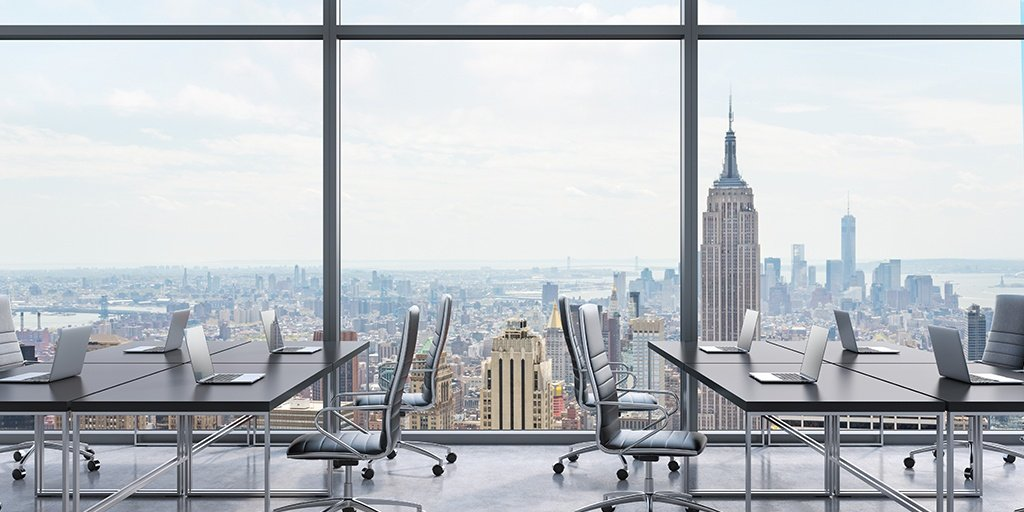
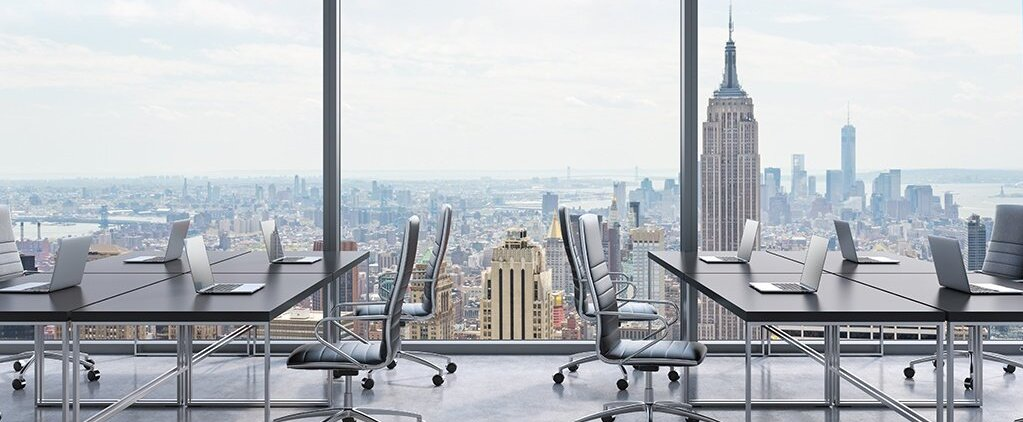
chaged images

diff --git a/src/components/header.js b/src/components/header.js
@@ -9,33 +9,30 @@ import { FaStoreAlt } from "@react-icons/all-files/fa/FaStoreAlt";
 import { FaFlagUsa } from "@react-icons/all-files/fa/FaFlagUsa";
 import { FaWarehouse } from "@react-icons/all-files/fa/FaWarehouse";
 import { FaBox } from "@react-icons/all-files/fa/FaBox";
-import useWindowSize from '../utils/useWindowSize';
 
 const Header = () => {
   const [open, setOpen] = useState(false);
-  const { width } = useWindowSize();
   return (
     <Navbar expand="md" id="navbar" style={{ padding: '5px 0 0 0' }}>
       <Container fluid className="header-container">
-        <Box style={{ flex: '1 1 100%', textAlign: 'right', paddingRight: width < 768 ? '10px' : '0' }}>
+        <Box style={{ flex: '1 1 100%', textAlign: 'right', paddingRight: '10px' }}>
           <a href="tel:+4258704368" style={{ color: '#000', cursor: 'pointer', display: 'flex', alignItems: 'center', justifyContent: 'flex-end' }}>
             <FaPhoneSquareAlt style={{ marginRight: '10px' }} />425-870-4368
           </a>
         </Box>
-        <Box style={{ flex: '1 1 100%', display: 'flex' }}>
+        <Box className="nav-wrapper">
           <Box>
             <Link to="/" style={{ margin: '0 20px' }}>
               <StaticImage src="../images/logo.jpg" alt="Flex Moving Logo" width={70} style={{ top: '-10px' }} />
             </Link>
           </Box>
-          <NavbarToggler onClick={() => setOpen(!open)} />
+          <Box>
+            <NavbarToggler onClick={() => setOpen(!open)} />
+          </Box>
           <Collapse navbar isOpen={open} className="navbar-container">
-            <Nav>
+            <Nav navbar>
               <NavItem>
                 <Link to="/" className="link-items">Home</Link>
-              </NavItem>
-              <NavItem>
-                <Link to="/our-story" className="link-items">Our story</Link>
               </NavItem>
               <UncontrolledDropdown nav inNavbar>
                 <DropdownToggle nav caret style={{ color: '#000', textTransform: 'uppercase' }}>

diff --git a/src/components/layout.css b/src/components/layout.css
@@ -26,6 +26,7 @@ a {
 }
 a:hover {
   text-decoration: none;
+  color: #fff;
 }
 * {
   padding: 0;
@@ -64,7 +65,7 @@ a:hover {
   width: 100%;
   min-height: 800px;
   max-width: 100vw;
-  background: url("../images/home-page.jpeg");
+  background: url("../images/home.jpg");
   background-size: cover;
   background-attachment: fixed;
   position: relative;
@@ -109,6 +110,10 @@ a:hover {
   font-size: 24px;
   padding-top: 10px;
 }
+.nav-wrapper {
+  flex: 1 1 100%;
+  display: flex;
+}
 .form-control-container {
   display: flex;
   justify-content: center;
@@ -131,13 +136,6 @@ a:hover {
   justify-content: center;
   flex-wrap: wrap;
   padding: 10px 0;
-}
-.services-nav-heading {
-  padding: 20px 0;
-}
-.services-nav-heading > p {
-  font-size: 2rem;
-  text-align: center;
 }
 .service-nav {
   min-height: 100px;
@@ -170,7 +168,7 @@ a:hover {
   /* max-height: 600px; */
   min-height: 700px;
   background-size: cover;
-  background-position-y: -200px;
+  background-position-y: 00px;
   background-repeat: no-repeat;
   display: flex;
   justify-content: center;
@@ -254,6 +252,10 @@ a:hover {
 }
 .footer-links {
   padding:  0 10px;
+  color: #fff;
+}
+.active {
+  color: #fff;
 }
 .active:hover {
   text-decoration: underline;
@@ -395,8 +397,18 @@ a:hover {
     right: 0;
     padding: 10px;
   }
-  .services-nav-heading {
-    padding: 20px 10px;
+  .nav-wrapper {
+    justify-content: space-between;
+    flex-wrap: wrap;
+  }
+  .navbar-container {
+    flex: 1 1 100%;
+  }
+  .navbar-container > ul {
+    width: 100%;
+  }
+  .navbar-container > ul > li {
+    text-align: center;
   }
   .services-navigation {
     flex-direction: column;

diff --git a/src/pages/index.js b/src/pages/index.js
@@ -20,10 +20,13 @@ const IndexPage = () => {
           <Form />
         </div>
       </div>
-      <Box className="services-nav-heading">
-        <Typography>We offer you next type of services</Typography>
-      </Box>
       <ServicesNavigation />
+      <Box className="info-container">
+        <Box style={{ width: '80%' }}>
+          <h1 className="info-heading">About us</h1>
+          <Typography>The friendship that began ten years ago back home in Europe has grown into partnership here in the United States. We spent six years working in the largest NYC moving companies gaining experience in all aspects of moving industry before making Flex moving as well-known company. We wanted to form a moving company that kept its word. A company dedicated to making a difference in the lives of its clients, team members and community. A moving company who offers service that puts a smile on the faces of our customers. Our services include local, intrastate, long distance, international, residential and commercial moves. as well storage service and warehousing. Whether you are moving your apartment or house or your businesses in NYC area or out of state Flex Moving is there as your only and best choice for a long-term period. As a trusted moving company our moving service ensure every aspect of your move to be coherent and stress free.</Typography>
+        </Box>
+      </Box>
       <Box className="info-container">
         <Box style={{ width: '80%' }}>
           <h1 className="info-heading"><FaInfoCircle style={{ marginRight: '10px', color: '#055793' }} />COVID - 19 RESPONSES</h1>

diff --git a/src/components/footer.js b/src/components/footer.js
@@ -20,13 +20,10 @@ const Footer = () => {
         </Box>
         <Box>
           <Box>
-            <Link to="/" className="active">- Home</Link>
+            <Link to="/" className="active">Home</Link>
           </Box>
           <Box>
-            <Link to="/our-story" className="active">- Our story</Link>
-          </Box>
-          <Box>
-            <Typography style={{ color: '#fff' }}>- Moving services</Typography>
+            <Typography style={{ color: '#fff' }}>Moving services</Typography>
             <Box style={{ paddingLeft: '10px' }} className="footer-nav">
               <Link to="/moving-services/local" className="footer-links active">Local</Link>
               <Link to="/moving-services/commercial" className="footer-links active">Commercial</Link>
@@ -35,7 +32,7 @@ const Footer = () => {
             </Box>
           </Box>
           <Box>
-            <Link to="/contact" className="active">- Contact</Link>
+            <Link to="/contact" className="active">Contact</Link>
           </Box>
         </Box>
       </Box>

diff --git a/src/components/layout.js b/src/components/layout.js
@@ -5,6 +5,7 @@ import "./layout.css";
 import { Box } from '@material-ui/core';
 import { ToastContainer } from 'react-toastify';
 import 'react-toastify/dist/ReactToastify.css';
+import 'bootstrap/dist/css/bootstrap.min.css';
 
 const Layout = ({ children }) => {
   return (

diff --git a/gatsby-browser.js b/gatsby-browser.js
@@ -5,4 +5,3 @@
  */
 
 // You can delete this file if you're not using it
-import 'bootstrap/dist/css/bootstrap.min.css';
